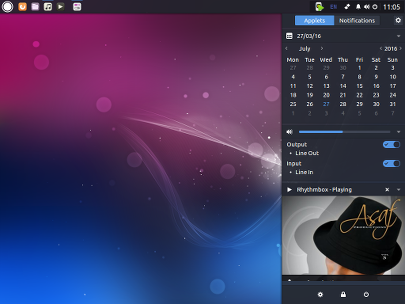
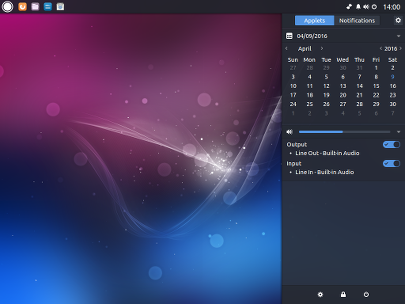
Update desktop screenshot and make slidetitles bigger
- Budgie desktop screenshot from budgie-remix Final Beta
- Increase font size of slidetitles
- Change color and shadow style of slide headers
- Replace <br> with <br /> for XHTML compatibility

diff --git a/slideshows/budgie-remix/slides/desktop.html b/slideshows/budgie-remix/slides/desktop.html
@@ -4,12 +4,12 @@
 
 <div class="main">
 	<div class="text">
-			<strong>Budgie</strong> is built exclusively for desktop users. No mobile or tablet here!<br/><br/>
-
-			<li><strong>Budgie Menu</strong> provides quick access to your apps, offering both category and compact views</li><br/>
-			<li><strong>Raven</strong> side panel lets you access applets,notifications and customization center all in one place</li><br/>
+			<strong>Budgie</strong> is built exclusively for desktop users. No mobile or tablet here!
+			<br /><br />
+			<li><strong>Budgie Menu</strong> provides quick access to your apps, offering both category and compact views</li><br />
+			<li><strong>Raven</strong> side panel lets you access applets,notifications and customization center all in one place</li><br />
 			<li><strong>Budgie</strong> gets out of your way and provides a clutter free desktop experience</li>
 	</div>
 
-	<img class="screenshot" src="screenshots/desktop.png"/>
+	<img class="screenshot" src="screenshots/desktop.png" />
 </div>

diff --git a/slideshows/budgie-remix/slides/gethelp.html b/slideshows/budgie-remix/slides/gethelp.html
@@ -6,8 +6,8 @@
     <div class="text">
         <div>
             Thanks for choosing and installing <strong>budgie-remix</strong>!<br/><br/>
-            <li>Get help and support on our Google+ community (Google "google+ budgie-remix") or on <strong>Launchpad</strong>: <a href="https://launchpad.net/budgie-remix">launchpad.net/budgie-remix</a></li><br/>
-            <li>For more information and pointers to other useful resources, please visit our homepage: <a href="http://budgie-remix.org">budgie-remix.org</a></li><br/>
+            <li>Get help and support on our Google+ community (Google "google+ budgie-remix") or on <strong>Launchpad</strong>: <a href="https://launchpad.net/budgie-remix">launchpad.net/budgie-remix</a></li><br />
+            <li>For more information and pointers to other useful resources, please visit our homepage: <a href="https://budgie-remix.org">budgie-remix.org</a></li><br />
             Enjoy and have fun! 😃
         </div>
     </div>

diff --git a/slideshows/budgie-remix/slides/office.html b/slideshows/budgie-remix/slides/office.html
@@ -5,20 +5,19 @@
 <div class="main">
 	<div class="text">
 		<div>
-			<p>Create professional documents, spreadsheets, presentations, drawings and more. <strong>LibreOffice</strong> is a comprehensive, professional-quality productivity suite shipped by default. Make your day-to-day tasks more easy and fun.
-			</p>
+			<p>Create professional documents, spreadsheets, presentations, drawings and more. <strong>LibreOffice</strong> is a comprehensive, professional-quality productivity suite shipped by default. Make your day-to-day tasks more easy and fun.</p>
 		</div>
 
 		<div class="bigicon">
 			<ul>
 				<li>
-					<img src="icons/libreoffice.png"/>
+					<img src="icons/libreoffice.png" />
 				</li>
 				<li>
-					<img src="icons/evince.png"/>
+					<img src="icons/evince.png" />
 				</li>
 				<li>
-					<img src="icons/gnome-documents.png"/>
+					<img src="icons/gnome-documents.png" />
 				</li>
 			</ul>
 		</div>

diff --git a/slideshows/budgie-remix/slides/software.html b/slideshows/budgie-remix/slides/software.html
@@ -5,17 +5,18 @@
 <div class="main">
 	<div class="text">
 		<div>
-			<p><strong>Say Goodbye to searching the web for a software</strong> <br /> <br />
+			<p><strong>Say Goodbye to searching the web for a software</strong>
+			<br /><br />
 			With <strong>GNOME Software</strong> you can easily find and install software. Your ratings and reviews are used to rank software by popularity. You have access to thousands of free and commercial applications. Installing anything is just a couple of clicks away from you.</p>
 		</div>
 
 		<div class="bigicon">
 			<ul>
 				<li>
-					<img src="icons/gnome-software.png"/>
+					<img src="icons/gnome-software.png" />
 				</li>
 				<li>
-					<img src="icons/system-software-update.png"/>
+					<img src="icons/system-software-update.png" />
 				</li>
 			</ul>
 		</div>

diff --git a/slideshows/budgie-remix/slides/welcome.html b/slideshows/budgie-remix/slides/welcome.html
@@ -4,8 +4,8 @@
 
 <div class="main big">
 	<div class="text">
-        <li><strong>budgie-remix</strong> is a community driven Ubuntu flavor featuring the <strong>Budgie</strong> Desktop Environment</li><br/>
-        <li>Being designed with the modern user in mind, <strong>Budgie</strong> focuses on simplicity and elegance</li><br/>
+        <li><strong>budgie-remix</strong> is a community driven Ubuntu flavor featuring the <strong>Budgie</strong> Desktop Environment</li><br />
+        <li>Being designed with the modern user in mind, <strong>Budgie</strong> focuses on simplicity and elegance</li><br />
         <li><strong>Budgie</strong> tightly integrates with the GNOME stack, employing underlying technologies to offer an alternative desktop experience</li>
 	</div>
 </div>

diff --git a/slideshows/budgie-remix/slides/dashboard.html b/slideshows/budgie-remix/slides/dashboard.html
@@ -5,9 +5,9 @@
 <div class="main">
     <div class="text">
             budgie-remix ships with a hidden feature: <strong>XfDashboard</strong>. Press <strong>CTRL+TAB</strong> to summon the dashboard.
-            <br/><br/>
+            <br /><br />
             XfDashboard provides a GNOME Shell like interface with application overview, search and workspaces support.
     </div>
 
-    <img class="screenshot" src="screenshots/dashboard.png"/>
+    <img class="screenshot" src="screenshots/dashboard.png" />
 </div>

diff --git a/slideshows/budgie-remix/slides/media.html b/slideshows/budgie-remix/slides/media.html
@@ -13,17 +13,17 @@
 		<div class="bigicon">
 			<ul>
 				<li>
-					<img src="icons/rhythmbox.png"/>
+					<img src="icons/rhythmbox.png" />
 				</li>
 				<li>
-					<img src="icons/gnome-videos.png"/>
+					<img src="icons/gnome-videos.png" />
 				</li>
 				<li>
-					<img src="icons/pitivi.png"/>
+					<img src="icons/pitivi.png" />
 				</li>
 			</ul>
 		</div>
 	</div>
 
-	<img class="screenshot" src="screenshots/media.png"/>
+	<img class="screenshot" src="screenshots/media.png" />
 </div>

diff --git a/slideshows/budgie-remix/slides/link/base.css b/slideshows/budgie-remix/slides/link/base.css
@@ -122,8 +122,8 @@ strong {
 	width:100%;
 	height:68px;
 	z-index: 2;
-	background-color:#191919;
-	box-shadow: 0px 2px 8px 5px #191919;
+	background-color:#222;
+	box-shadow: 0px 1px 2px 0px #222;
 }
 
 .header > .slidetitle {
@@ -131,7 +131,7 @@ strong {
 	padding:0px 25px;
 	vertical-align:middle;
 
-	font-size:15px;
+	font-size:20px;
 	line-height:50px;
 	font-weight:bold;
 	color:#F7F6F6;

diff --git a/slideshows/budgie-remix/slides/browse.html b/slideshows/budgie-remix/slides/browse.html
@@ -11,14 +11,11 @@
 		<div class="bigicon">
 			<ul>
 				<li>
-					<img src="icons/firefox.png"/>
+					<img src="icons/firefox.png" />
 				</li>
 				<li>
-					<img src="icons/chromium.png"/>
+					<img src="icons/chromium.png" />
 				</li>
-				<!-- <li> -->
-					<!-- <img src="icons/gnome-web.png"/> -->
-				<!-- </li> -->
 			</ul>
 		</div>
 	</div>

diff --git a/slideshows/budgie-remix/slides/photos.html b/slideshows/budgie-remix/slides/photos.html
@@ -11,13 +11,13 @@
 		<div class="bigicon">
 			<ul>
 				<li>
-					<img src="icons/gnome-photos.png"/>
+					<img src="icons/gnome-photos.png" />
 				</li>
 				<li>
-					<img src="icons/eog.png"/>
+					<img src="icons/eog.png" />
 				</li>
 				<li>
-					<img src="icons/gimp.png"/>
+					<img src="icons/gimp.png" />
 				</li>
 			</ul>
 		</div>
